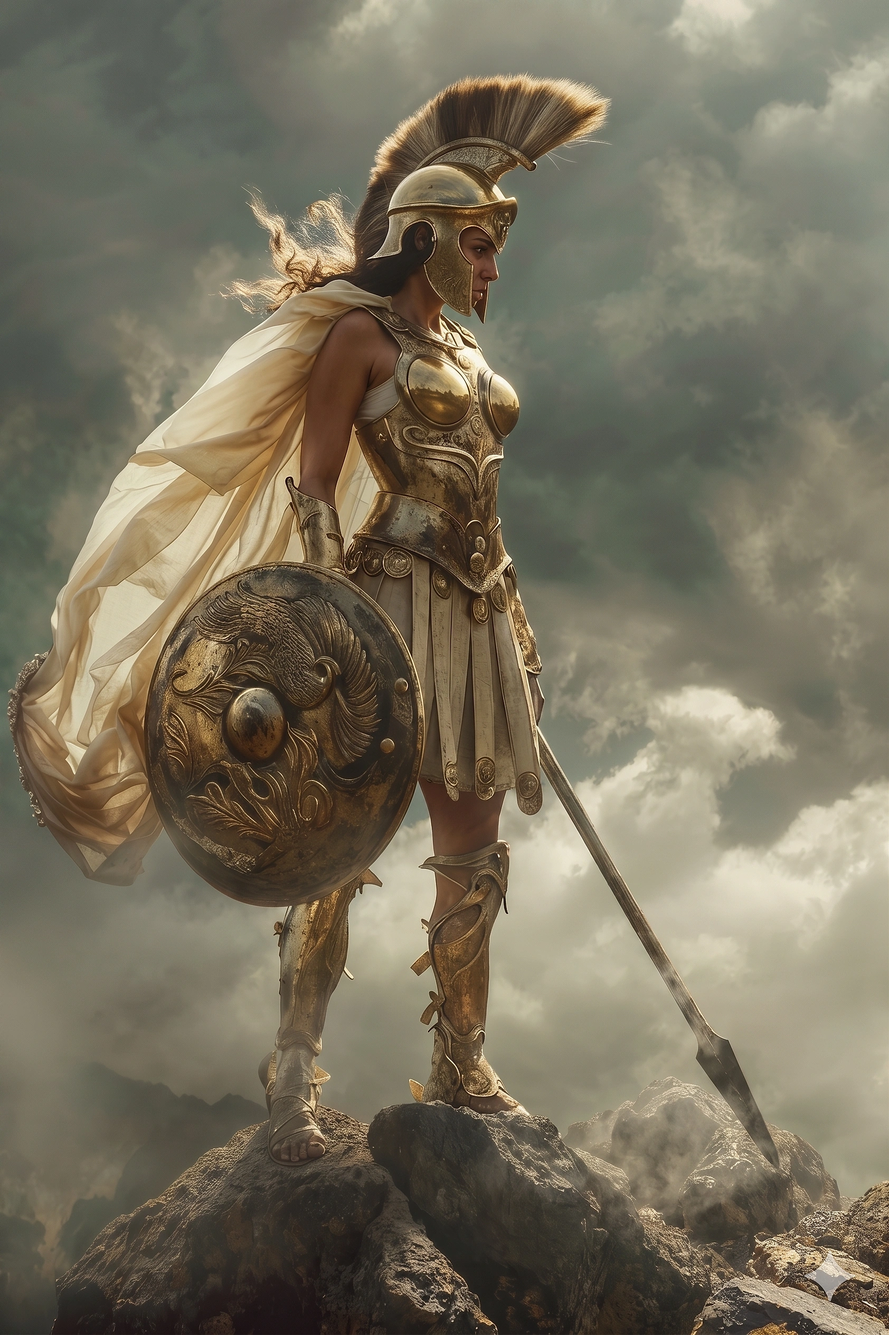
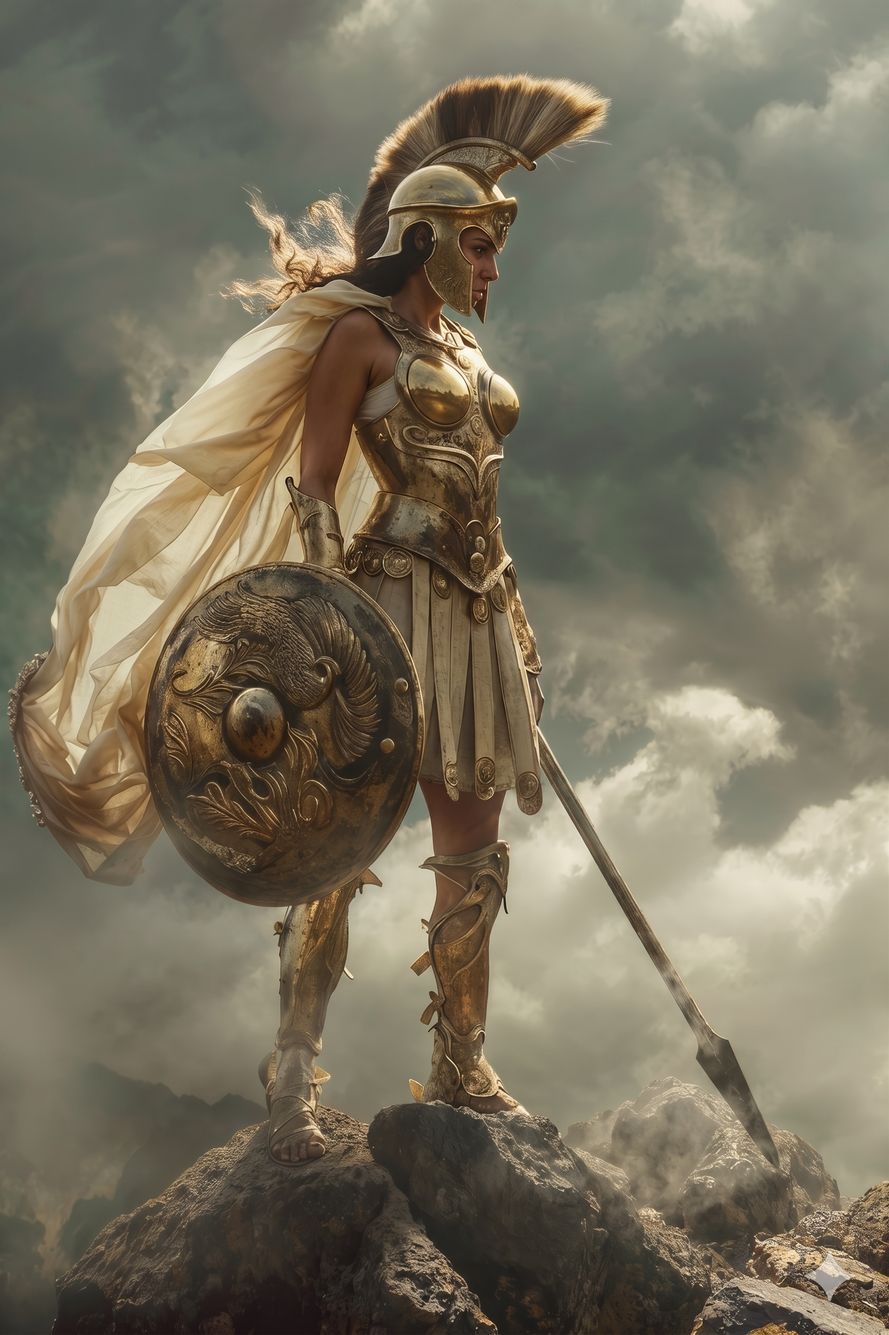
perf: lossless WebP (7.5MB→3.38MB zero quality loss), hide scrollbar globally

diff --git a/src/index.css b/src/index.css
@@ -4,6 +4,13 @@
 
 @layer base {
   * {
+    scrollbar-width: none;
+    -ms-overflow-style: none;
+  }
+  *::-webkit-scrollbar {
+    display: none;
+  }
+  * {
     box-sizing: border-box;
     -webkit-tap-highlight-color: transparent;
   }

diff --git a/src/pages/Login.jsx b/src/pages/Login.jsx
@@ -1,5 +1,5 @@
 import { useState, useEffect } from 'react'
-import heroImg from '../assets/athena-hero.png'
+import heroImg from '../assets/athena-hero.webp'
 
 const PARTICLES = Array.from({ length: 40 }, (_, i) => ({
   id: i,
